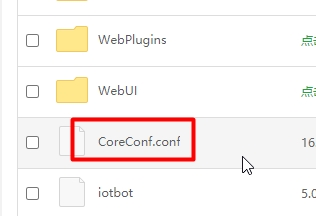
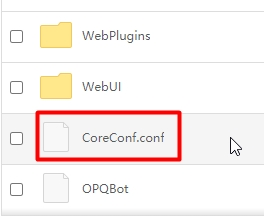
update

diff --git a/docs/guide/manual.md b/docs/guide/manual.md
@@ -6,17 +6,18 @@ next: /guide/guide
 # 从零开始
 
 ::: tip 提示
-由于 iotbot 更名为 opqbot，下文中提到的 iot 均与 opq 等同。
+由于 iotbot 更名为 opqbot，下文中提到的 opq 均与 iot 等同。
 :::
 
 ## 下载运行包
 
-你可以从 iotqq 的官方群或 gitter.im 的 [iot](https://gitter.im/IOTQQTalk/IOTQQ) 群组等渠道获取下载安装包，这里建议使用 amd64 在 ubuntu 上运行。
+你可以从 [OPQ](https://github.com/OPQBOT/OPQ) 官方项目等渠道获取下载安装包，这里建议使用 amd64 在 ubuntu 上运行。
 
 注： windows 运行包存在一些问题，在 windows server 2012 上如果没有开通虚拟 linux 环境权限（学生机无法开通），是运行不了的。所以建议使用 linux 系列运行包。
 
 附：
- - 最新版 iot 运行包（不一定实时更新）：[iotbot_3.0.6_linux_amd64.tar.gz](https://files.gitter.im/5e887cf2d73408ce4fdf42c5/97r6/iotbot_3.0.6_linux_amd64.tar.gz)
+ - 最新版 opq 运行包（不一定实时更新）：[OPQBot_3.0.8_linux_amd64.tar.gz](https://files.gitter.im/5f27939ed73408ce4feb3112/ygKm/OPQBot_3.0.8_linux_amd64.tar.gz)
+ - 树莓派版本请自行寻找。
 
 ## 安装管理面板
 
@@ -67,7 +68,7 @@ wget -O install.sh http://download.bt.cn/install/install-ubuntu_6.0.sh && sudo b
 ### 上传运行包
 
 #### 创建文件夹
-通过 宝塔面板 > 文件 上传刚刚下载的运行包到服务器，这里假设上传到 `/root/iotqq` 这个文件夹内：
+通过 宝塔面板 > 文件 上传刚刚下载的运行包到服务器，这里假设上传到 `/root/opqqq` 这个文件夹内：
 
 <img :src="$withBase('/manual/makedir.jpg')" class="my-img" />
 
@@ -107,14 +108,14 @@ wget -O install.sh http://download.bt.cn/install/install-ubuntu_6.0.sh && sudo b
 
 先切换到该目录内：
 ```bash
-    cd ~/iotqq/iotbot_3.0.6_linux_amd64
+    cd ~/opqqq/OPQBot_3.0.8_linux_amd64
 ```
 注：后半部分请根据你解压后的文件名切换，这只是一个例子。
 
 #### 试运行
 运行机器人：
 ```bash
-    ./iotbot
+    ./OPQBot
 ```
 看到 everything 成功即可进行登录。
 
@@ -128,7 +129,7 @@ wget -O install.sh http://download.bt.cn/install/install-ubuntu_6.0.sh && sudo b
 
 确认无误后，你可以通过 `nohup` 后台方式运行机器人：
 ```bash
-    nohup ./iotbot &
+    nohup ./OPQBot &
 ```
 会在当前程序目录自动产生一个 `nohup.out` 日志文件，有关日志查看，请看后文介绍。
 
@@ -280,18 +281,31 @@ centos 运行：
 ```
 构建：
 ```bash
-    docker build --no-cache -t iotqq:base .
+    docker build --no-cache -t opqqq:base .
 ```
 
 #### 运行
 将你本地机器人目录挂载到容器里即可：
 ```bash
     docker run \
-        -v /iotqq/iotbot_3.0.6_linux_amd64:/iot \
-        --name iotqq \
-        -w /iot \
+        -v /opqqq/OPQBot_3.0.8_linux_amd64:/opq \
+        --name opqqq \
+        -w /opq \
         -p 8888:8888 \
-        -d iotqq:base \
-        ./iotbot
+        -d opqqq:base \
+        ./OPQBot
+```
+
+#### 内存监控
+```bash
+    # 找到 pid
+    ps aux | grep OPQBot
+    # 监控
+    top -d 2 -p <pid>
+```
+
+#### 日志监控
+```bash
+    docker logs -tf opqqq --tail 20
 ```
 
